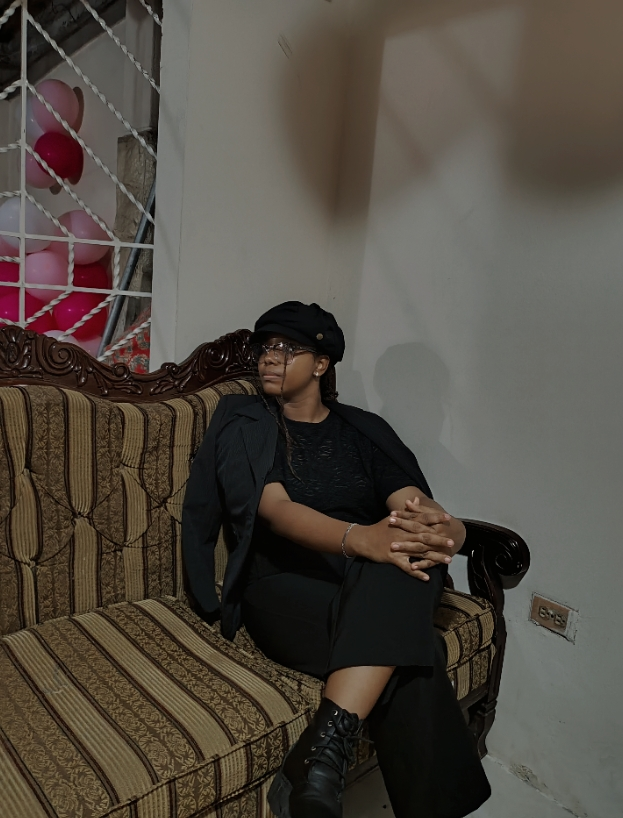
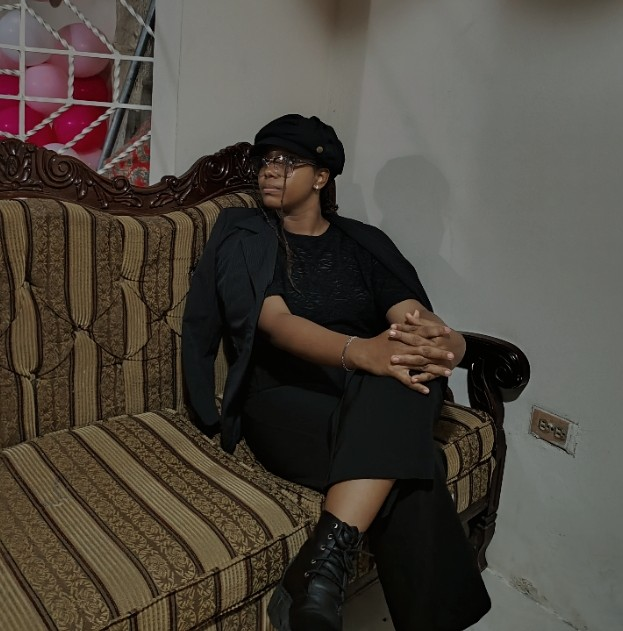
Imagen agregada

diff --git a/index (2).html b/index (2).html
@@ -69,7 +69,7 @@
  
   <div class="hero-media reveal">
     <!-- EDITA AQUÍ: reemplaza este div por <img src="tu-foto.jpg" alt="Camila Torres corriendo"> -->
-    <div class="img-placeholder" data-label="img1.jpg"></div>
+    <img src="img1.jpg" alt="Camila Torres corriendo">
   </div>
  
   <div class="scroll-cue" aria-hidden="true">desliza <span>↓</span></div>
